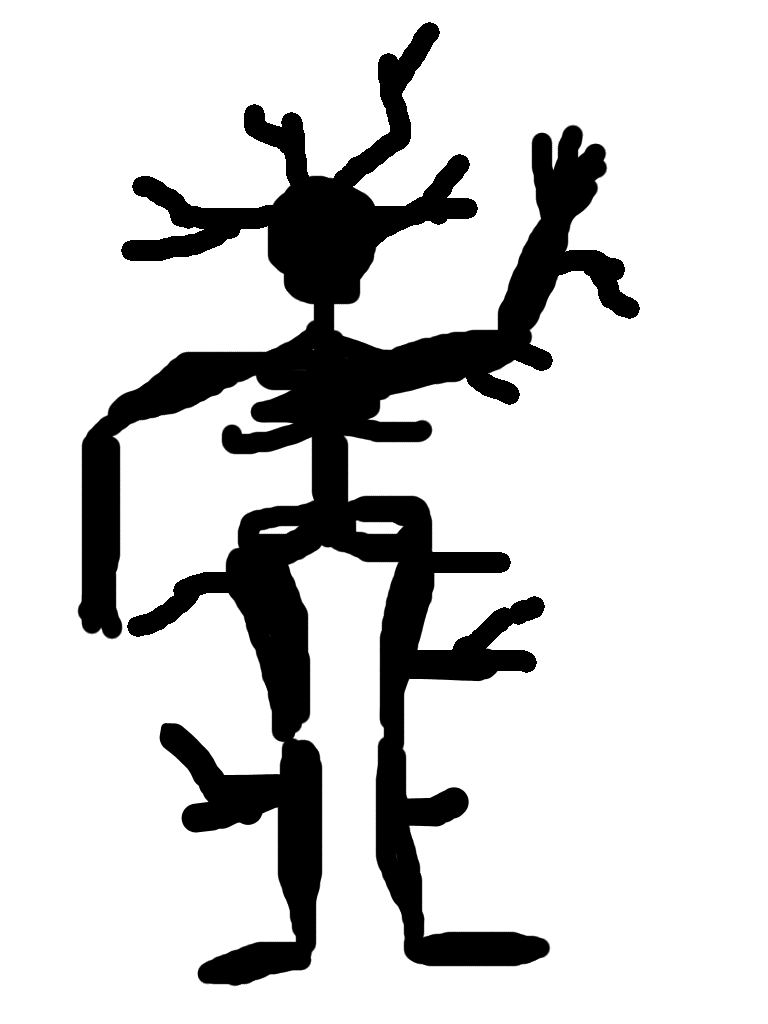
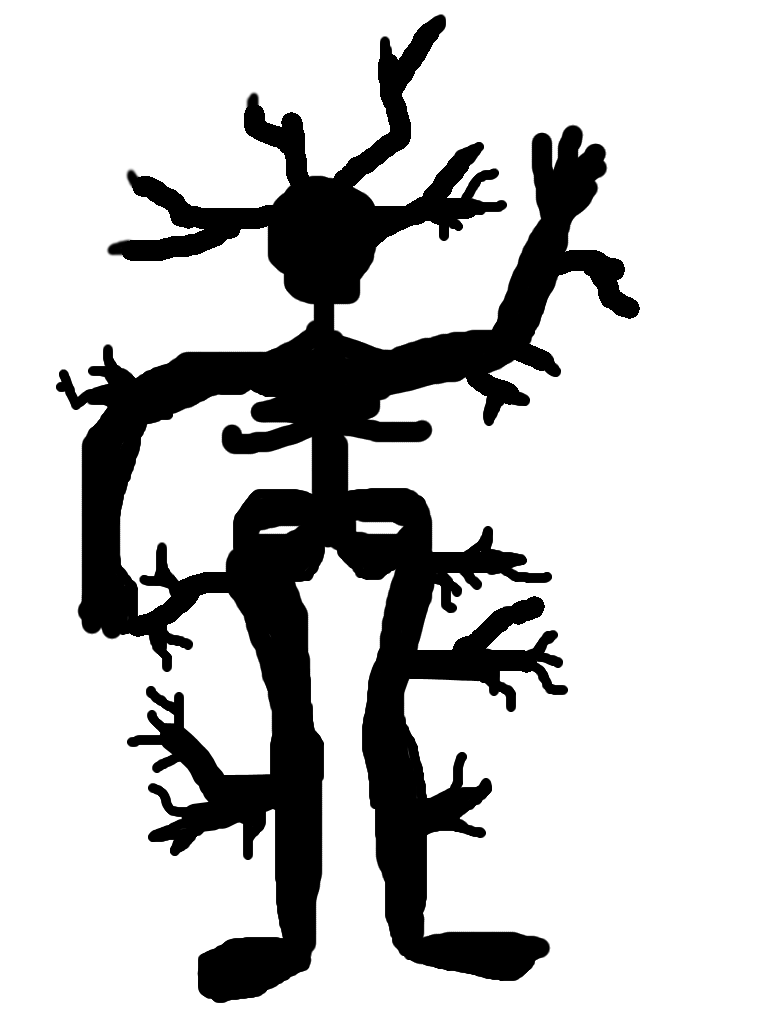
Add how the skeletton would look on ccs level

diff --git a/basics/css_basics.html b/basics/css_basics.html
@@ -49,7 +49,7 @@
 	</div>
 	<div class="main">
 		<h2>Playground</h2>
-		<img src="../media/skeleton_hole_in_wall.png" alt="Skeleton made hole in the wall">
+		<img src="../media/skeleton_styling.png" alt="Skeleton with style">
 	</div>
 	
 </body>
